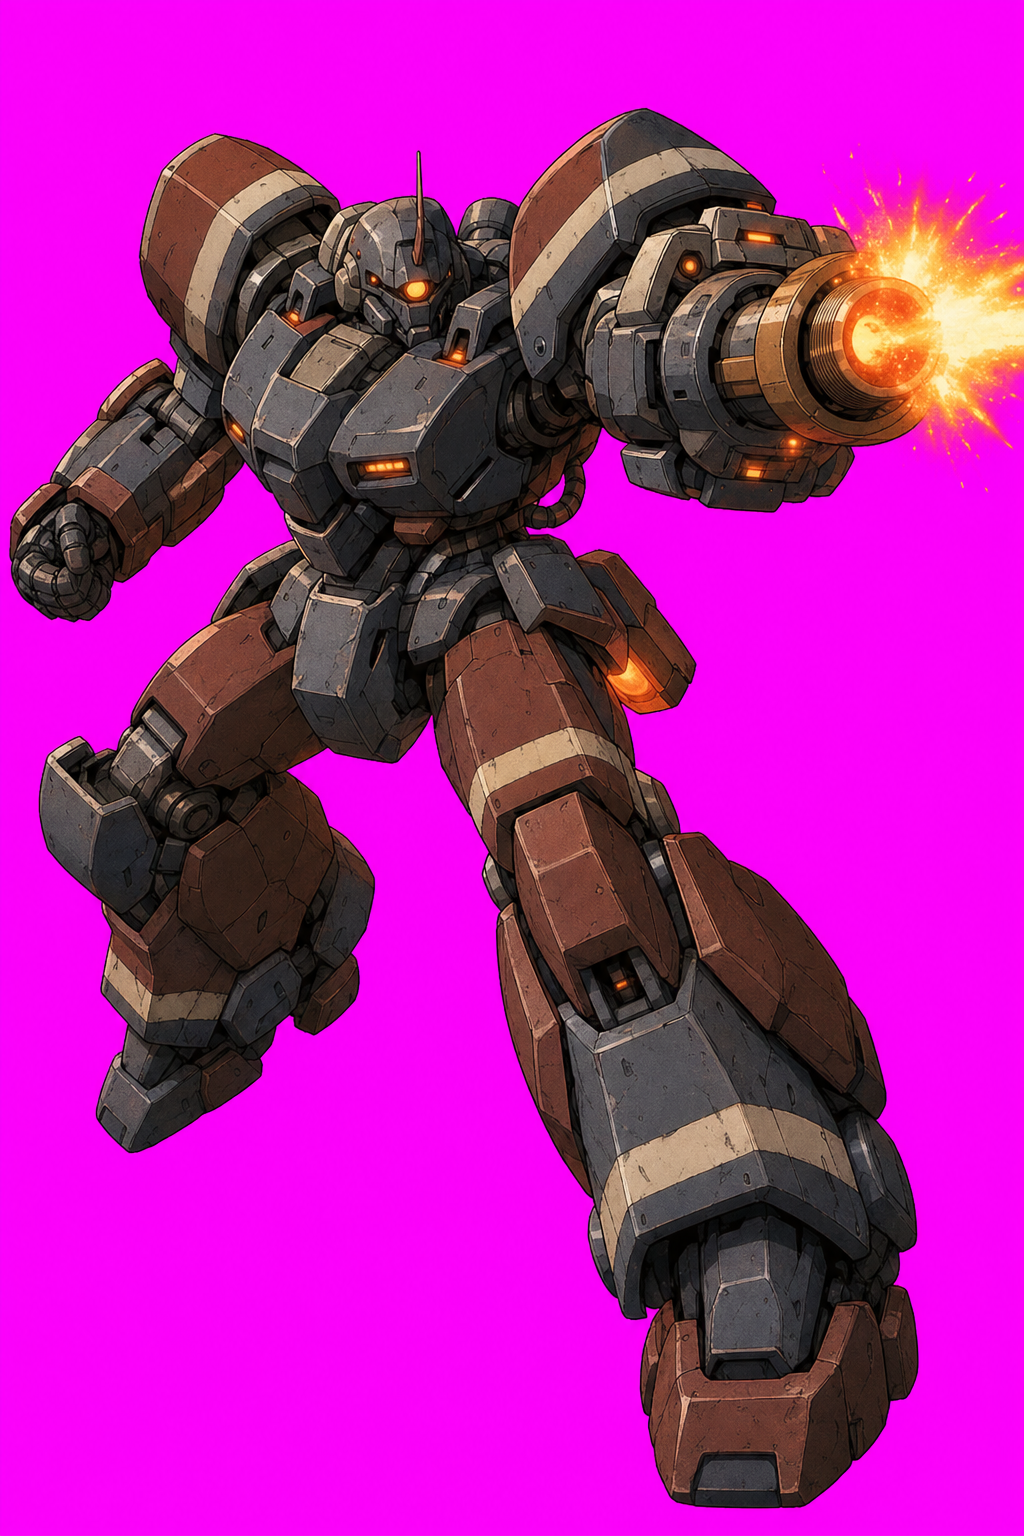
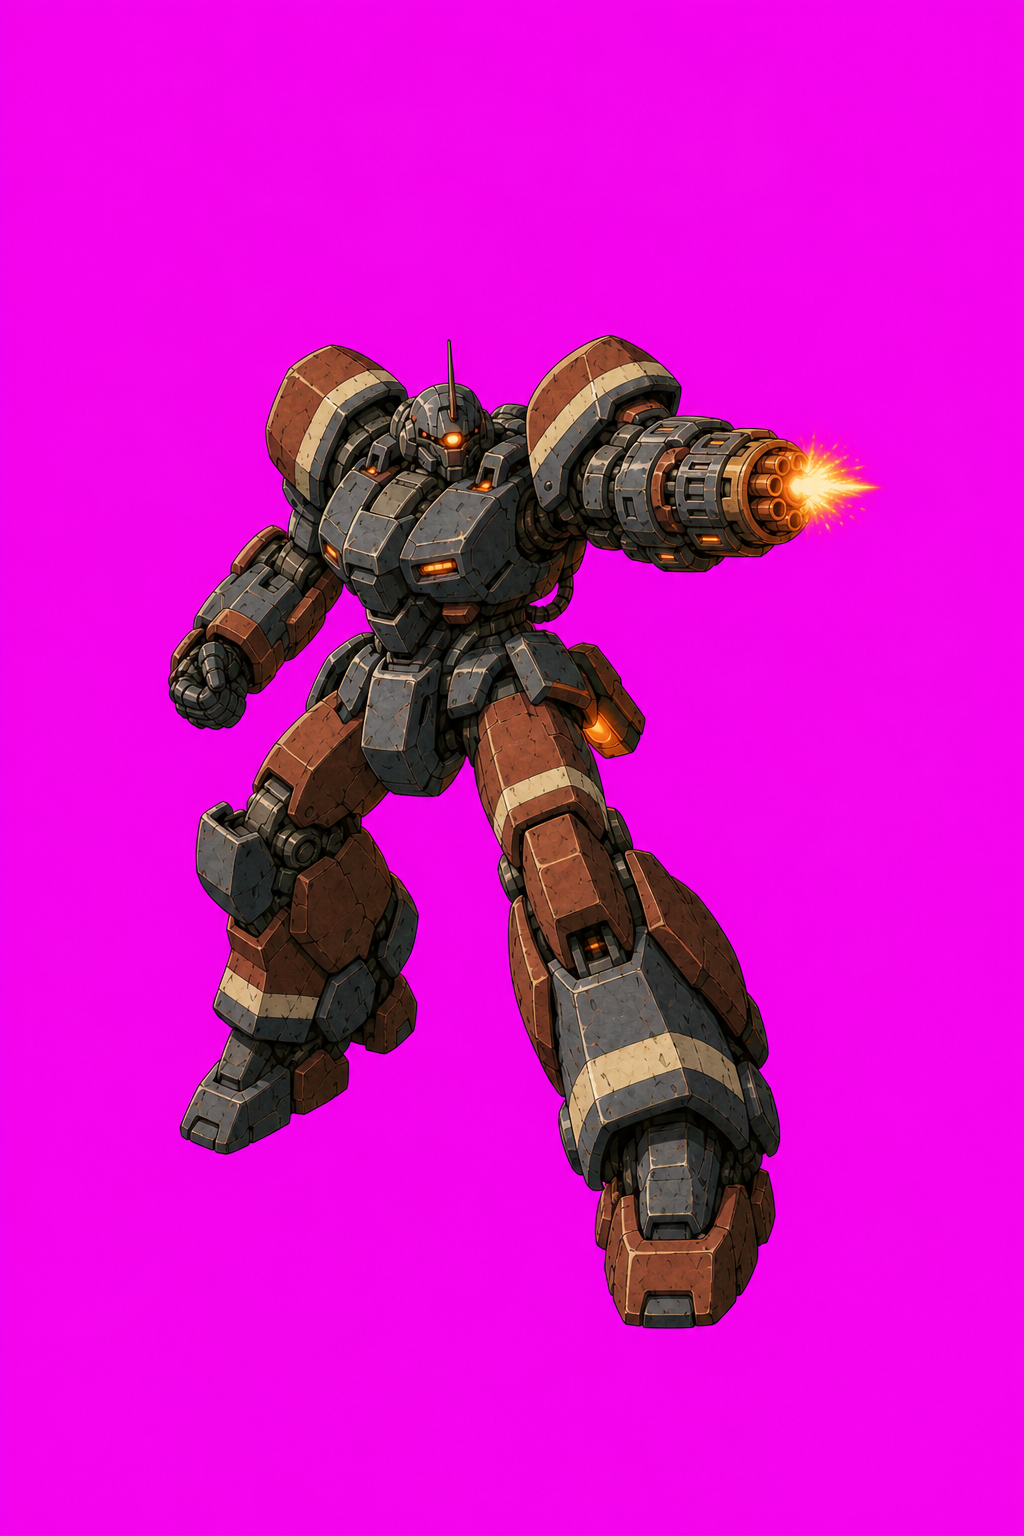
Polish hangar launch cut-in and gear arrival pose.

diff --git a/src/game/ui/overlay.ts b/src/game/ui/overlay.ts
@@ -145,7 +145,22 @@ function easeOutCubic(p: number): number {
   return 1 - (1 - p) ** 3;
 }
 
+/** Soft CRT scanlines over the whole frame (title/select treatment). */
+function crtScanlines(g: Ctx): void {
+  g.globalAlpha = 0.055;
+  g.fillStyle = '#02050c';
+  for (let y = 0; y < UI_H; y += 3) g.fillRect(0, y, UI_W, 1);
+  g.globalAlpha = 1;
+}
+
 function drawSelect(g: Ctx): void {
+  if (sel.confirmT >= 0) {
+    // Launch owns the whole frame — the briefing clears out under the flash.
+    drawLaunch(g);
+    crtScanlines(g);
+    return;
+  }
+
   const p = ROSTER[sel.ix];
   const blink = Math.floor(hud.t * 1.5) % 2 === 0;
 
@@ -159,18 +174,12 @@ function drawSelect(g: Ctx): void {
   drawStatPanel(g);
   drawRoster(g);
 
-  if (sel.confirmT < 0 && blink) {
+  if (blink) {
     tx(g, '◄ ► SELECT ── ENTER: LAUNCH 出撃', UI_W / 2, 626, 14, CYAN, 'center', 3);
   }
   tx(g, '© NEO-KYOTO GARRISON  1998', UI_W / 2, UI_H - 10, 11, DIM, 'center', 2);
 
-  // CRT scanlines, matching the title treatment.
-  g.globalAlpha = 0.055;
-  g.fillStyle = '#02050c';
-  for (let y = 0; y < UI_H; y += 3) g.fillRect(0, y, UI_W, 1);
-  g.globalAlpha = 1;
-
-  if (sel.confirmT >= 0) drawLaunch(g);
+  crtScanlines(g);
 }
 
 function drawPortraitPanel(g: Ctx): void {
@@ -338,11 +347,11 @@ function drawLaunch(g: Ctx): void {
   const c = sel.confirmT;
   const art = getPilotArt(p.id);
 
-  // Dim the briefing so the cut-in owns the frame.
-  g.fillStyle = `rgba(2, 5, 12, ${Math.min(0.55, c * 2.2)})`;
+  // Near-black card — the lifting gear's thrusters glow through early on.
+  g.fillStyle = `rgba(2, 5, 12, ${Math.min(0.86, c * 3)})`;
   g.fillRect(0, 0, UI_W, UI_H);
 
-  // Speed lines streaking across — stepped jitter reads as motion.
+  // Diagonal speed lines streaking across — stepped jitter reads as motion.
   if (c > 0.05) {
     g.strokeStyle = 'rgba(200, 245, 255, 0.4)';
     for (let i = 0; i < 24; i++) {
@@ -357,28 +366,33 @@ function drawLaunch(g: Ctx): void {
     }
   }
 
-  // Full-body gear plate slams in from the right, slightly canted.
+  // Full-body gear plate slides in from the right, settling nearly upright.
   if (art) {
-    const s = easeOutCubic(Math.min(1, c / 0.26));
+    const s = easeOutCubic(Math.min(1, c / 0.3));
     const plate = art.plate;
-    const ph = 660;
+    const ph = 640;
     const pw = (plate.width / plate.height) * ph;
     g.save();
-    g.translate(UI_W + 360 - s * 770, 392);
-    g.rotate(-0.09);
-    g.globalAlpha = Math.min(1, c * 7);
+    g.translate(UI_W + 340 - s * 750, 386);
+    g.rotate(-0.05);
+    g.globalAlpha = Math.min(1, c * 6);
     g.drawImage(plate, -pw / 2, -ph / 2, pw, ph);
     g.restore();
     g.globalAlpha = 1;
   }
 
-  // LAUNCH stamp with a settle pop over the left half.
-  if (c > 0.22) {
-    const pop = 1 + Math.max(0, 0.4 - (c - 0.22)) * 1.3;
-    const size = 58 * pop;
-    tx(g, 'LAUNCH', 316, 330, size, RED, 'center', 10);
-    tx(g, '出撃', 316, 330 + size * 0.85, size * 0.55, FG, 'center', 14);
-    tx(g, `${p.callsign} ── ${p.pilot}`, 316, 452, 16, CYAN, 'center', 3);
+  // Sortie order: one clean column beside the plate.
+  if (c > 0.18) {
+    g.globalAlpha = Math.min(1, (c - 0.18) / 0.18);
+    const cx = 320;
+    const pop = 1 + Math.max(0, 0.32 - (c - 0.18)) * 0.9;
+    tx(g, `SORTIE ORDER ── ${p.unitNo}`, cx, 252, 13, DIM, 'center', 4);
+    tx(g, 'LAUNCH', cx, 322, 60 * pop, RED, 'center', 12);
+    tx(g, '出撃', cx, 374, 26, FG, 'center', 16);
+    rule(g, cx - 150, 404, 300, RED);
+    tx(g, p.callsign, cx, 436, 22, FG, 'center', 6);
+    tx(g, p.pilot, cx, 464, 14, CYAN, 'center', 3);
+    g.globalAlpha = 1;
   }
 
   // Hard white hit on the tap, then a fade to black into the mission.

diff --git a/src/game/scenes/SelectScene.ts b/src/game/scenes/SelectScene.ts
@@ -13,10 +13,13 @@ import { hud, sel, setPhase } from '../ui/state';
 /** Seconds from confirm tap to mission start (overlay animates against this). */
 const LAUNCH_T = 1.15;
 
+/** Arrival pose: a slight three-quarter turn (rifle side), not dead-on. */
+const ARRIVE_YAW = 0.42;
+
 export class SelectScene extends Phaser.Scene {
   private gear!: Gear;
   private baseScale = 1;
-  private yaw = 0; // shared across gear swaps so the turntable never snaps
+  private yaw = 0;
 
   constructor() {
     super('select');
@@ -32,7 +35,6 @@ export class SelectScene extends Phaser.Scene {
     sel.hover = -1;
     sel.swapT = 9; // no glitch-in on entry
     sel.confirmT = -1;
-    this.yaw = 0;
     this.spawnGear();
   }
 
@@ -43,6 +45,7 @@ export class SelectScene extends Phaser.Scene {
     // Same pad framing as the title attract (1.22 showcase blow-up, low hover).
     this.baseScale = def.gear.scale * 1.22;
     this.gear = buildGear({ ...def.gear, scale: this.baseScale, hover: 0.5 });
+    this.yaw = ARRIVE_YAW;
     this.gear.root.rotation.y = this.yaw;
     s.battleGroup.add(this.gear.root);
   }